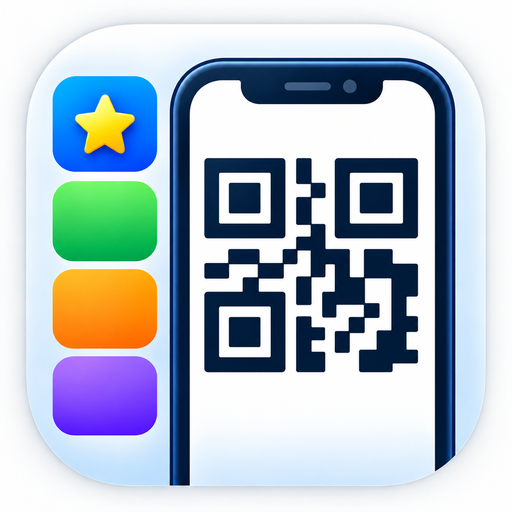
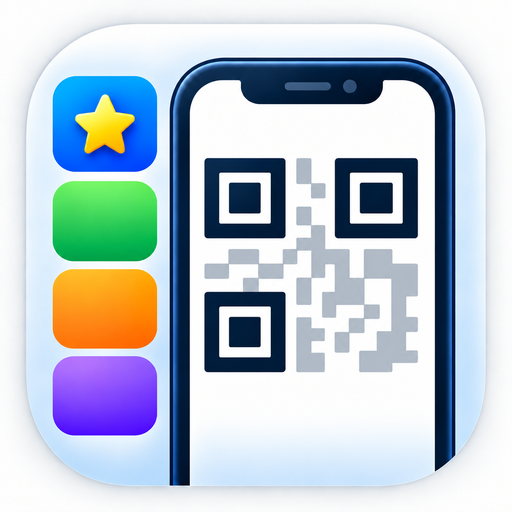
Add files via upload

Changed region(s): [[0.375, 0.3125, 0.8438, 0.75], [0.5625, 0.0938, 0.7812, 0.125], [0.7812, 0.3438, 0.8125, 0.4375]]

diff --git a/index.html b/index.html
@@ -139,7 +139,7 @@
       <main id="list" class="list"></main>
 
       <div class="footnote">
-        v1.05 — アイコンを刷新。QR/BARコード表示画面の「戻る」「再構成」ボタンを薄色化。
+        v1.06 — 公式アイコンを更新。QRコードのファインダーパターンを目立たせた新デザインを採用。
       </div>
     </div>
   </div>

diff --git a/sw.js b/sw.js
@@ -1,4 +1,4 @@
-const CACHE="id-portal-v1.05";
+const CACHE="id-portal-v1.06";
 const APP=["./","./index.html","./manifest.webmanifest","./icon-192.png","./icon-512.png",
 "https://cdnjs.cloudflare.com/ajax/libs/qrcode-generator/1.4.4/qrcode.min.js",
 "https://cdn.jsdelivr.net/npm/jsqr@1.4.0/dist/jsQR.js",
